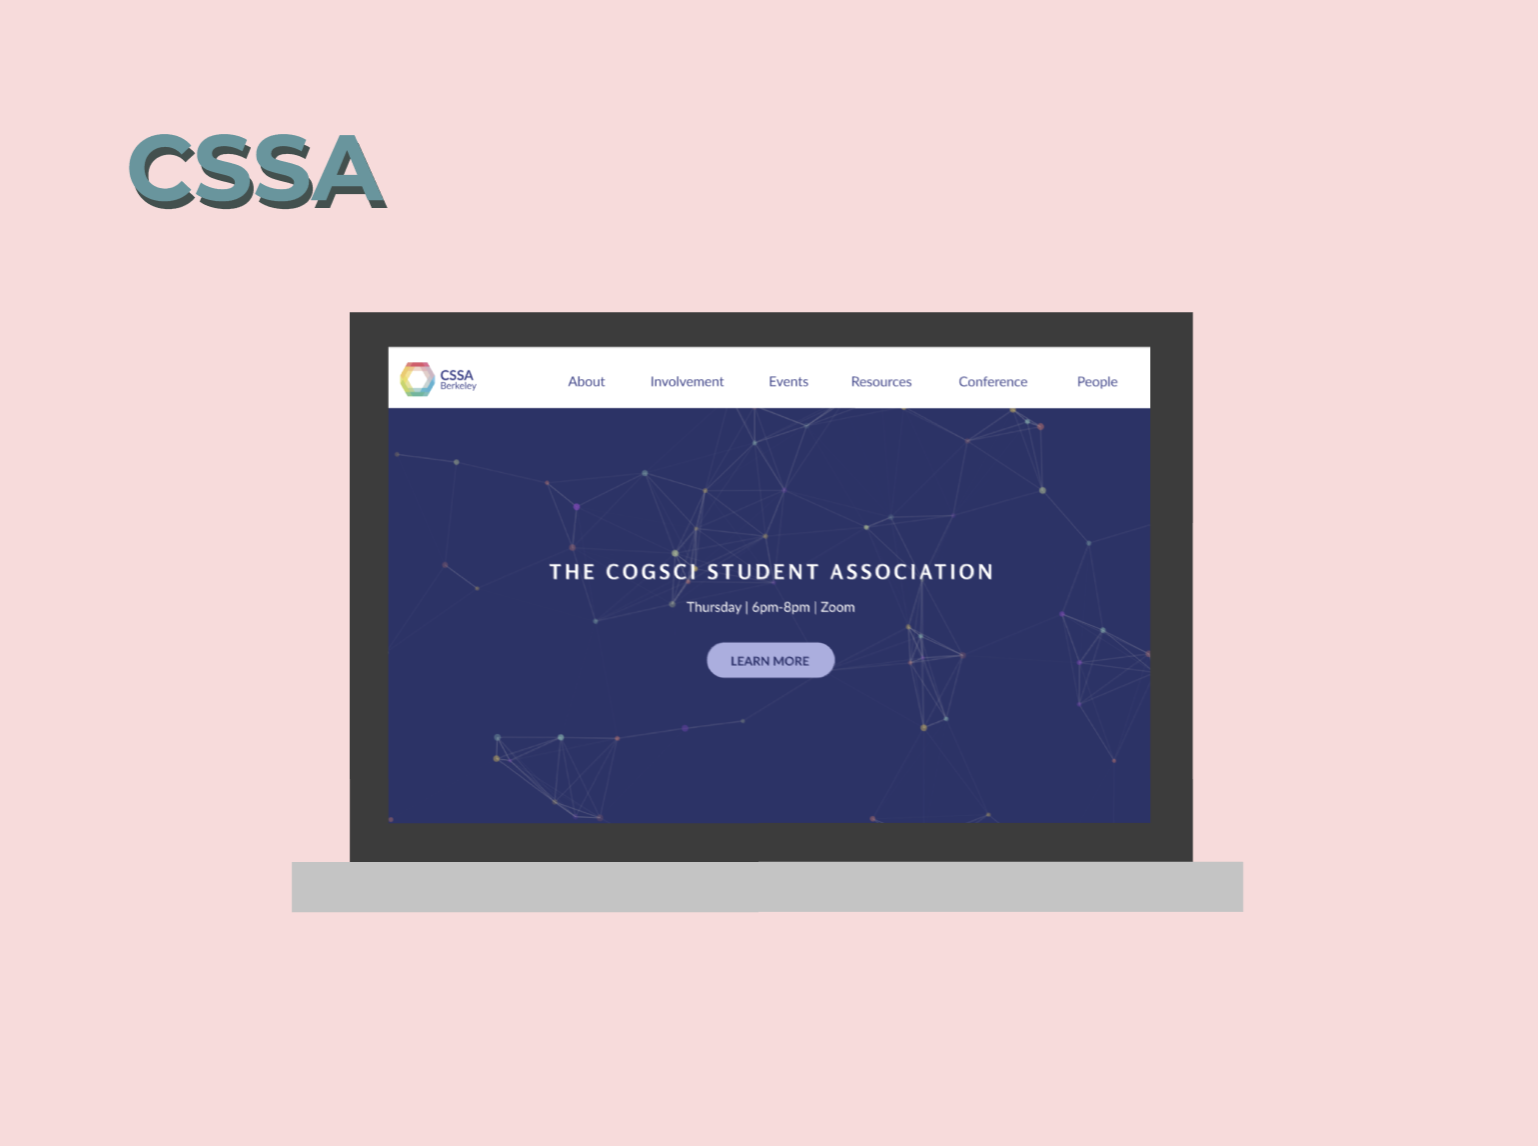
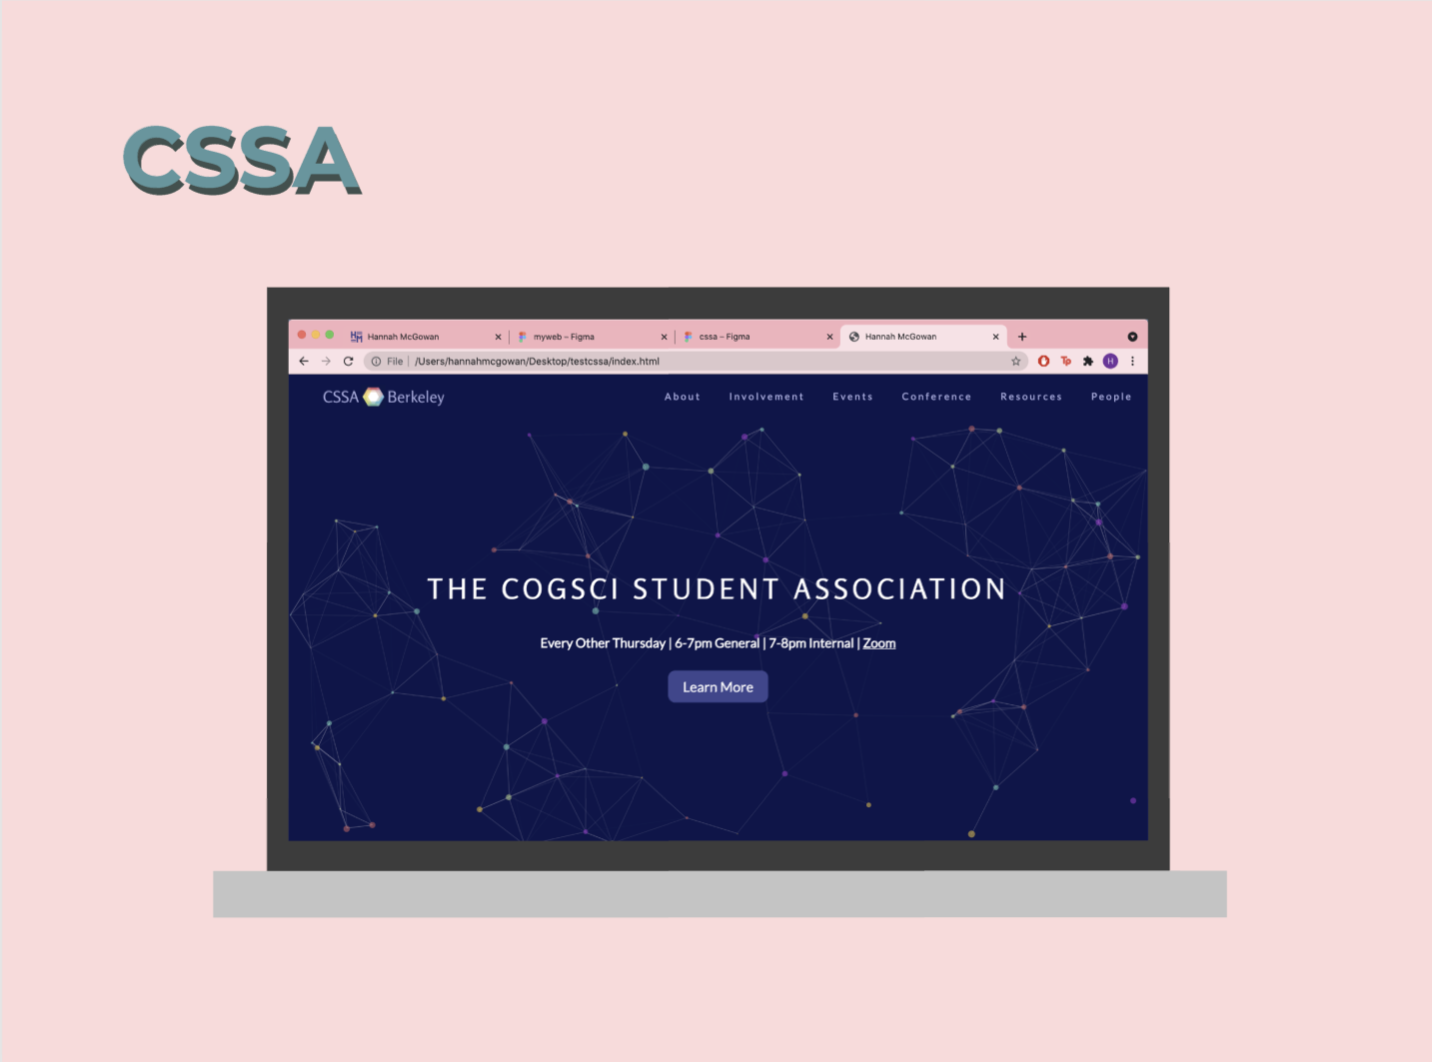
change font and add to portfolio

diff --git a/portfolio/adobeXD.html b/portfolio/adobeXD.html
@@ -8,6 +8,7 @@
 <link rel="icon" href="../images/favicon_HM.ico">
 <link href="https://fonts.googleapis.com/css2?family=Merriweather:ital,wght@0,300;0,400;0,700;0,900;1,300;1,400;1,700;1,900&family=Montserrat:ital,wght@0,100;0,200;0,300;0,400;0,500;0,600;0,700;0,800;0,900;1,100;1,200;1,300;1,400;1,500;1,600;1,700;1,800;1,900&family=Sacramento&display=swap"
     rel="stylesheet">
+<link href="https://fonts.googleapis.com/css2?family=Bowlby+One&display=swap" rel="stylesheet">
 
 <body>
 
@@ -48,6 +49,20 @@
     <div>
       <img class="construction-img" src="../images/portfo/construction.png">
     </div>
+
+
+    <div class="xd-col1">
+      <h3>AirBnb Workshop: "AirX."</h3>
+      <p>Details: worked on a team of 3 people; goal was to design a travelling app in which users could explore places to stay and create profiles based on various locations (OR SOMETHING I DONT REMEMBER THE PROMPT LOL). </p>
+      <p>PROCESS: </p>
+      <img src="">
+    </div>
+    <div class="xd-col2">
+      <h3>Netflix Workshop: "moviewatching" </h3>
+      <p>Details:WORKED ON TEAM OF 3; OBJECTIVE WAS TO CREATE APPLICATION IN WHICH USERS CAN VIEW SHOWS AND MOVIES; </p>
+      <img src="">
+    </div>
+
 
     <script type="text/javascript" src="../app.js"></script>
 

diff --git a/portfolio.html b/portfolio.html
@@ -8,6 +8,7 @@
 <link rel="icon" href="images/favicon_HM.ico">
 <link href="https://fonts.googleapis.com/css2?family=Merriweather:ital,wght@0,300;0,400;0,700;0,900;1,300;1,400;1,700;1,900&family=Montserrat:ital,wght@0,100;0,200;0,300;0,400;0,500;0,600;0,700;0,800;0,900;1,100;1,200;1,300;1,400;1,500;1,600;1,700;1,800;1,900&family=Sacramento&display=swap"
     rel="stylesheet">
+    <link href="https://fonts.googleapis.com/css2?family=Bowlby+One&display=swap" rel="stylesheet">
 
 <body>
 
@@ -64,6 +65,16 @@
         </a>
         <a href="portfolio/uidesigns.html"> 
           <img src="images/portfo/ui-img.png" class="port-img">
+        </a>
+    </div>
+
+    <div class="port-middle3">
+      <!-- <h2>Mini UI Designs</h2> -->
+      <a href="portfolio/cssaweb.html"> 
+          <img src="images/portfo/artwork-img.png" class="port-img">
+        </a>
+        <a href="portfolio/uidesigns.html"> 
+          <img src="images/portfo/mcgpaint-img.png" class="port-img">
         </a>
     </div>
 

diff --git a/index.html b/index.html
@@ -9,6 +9,8 @@
   <link rel="icon" href="images/favicon_HM.ico">
   <link href="https://fonts.googleapis.com/css2?family=Merriweather:ital,wght@0,300;0,400;0,700;0,900;1,300;1,400;1,700;1,900&family=Montserrat:ital,wght@0,100;0,200;0,300;0,400;0,500;0,600;0,700;0,800;0,900;1,100;1,200;1,300;1,400;1,500;1,600;1,700;1,800;1,900&family=Sacramento&display=swap"
     rel="stylesheet">
+ 
+<link href="https://fonts.googleapis.com/css2?family=Bowlby+One&display=swap" rel="stylesheet">
 
   <!-- <link rel="stylesheet" href="https://cdnjs.cloudflare.com/ajax/libs/font-awesome/4.7.0/css/font-awesome.min.css"> -->
   

diff --git a/css/styles.css b/css/styles.css
@@ -7,7 +7,7 @@ body {
   height: 100%;
   box-sizing: border-box;
   text-align: center;
-  font-family: 'Merriweather', sans-serif;
+  font-family: 'Montserrat', sans-serif;
 }
 
 /* START NAV */
@@ -146,7 +146,7 @@ nav {
 h1 {
   font-size: 5.625rem;
   margin: 50px auto 0 auto;
-  font-family: 'Sacramento', cursive;
+  font-family: 'Bowlby One', cursive;
   color: #3d7ea6;
 }
 
@@ -413,7 +413,7 @@ hr {
   color: #3d7ea6;
 }
 
-/* PORTFOLIO EXPRESSIO */
+/* PORTFOLIO EXPRESSO */
 
 .expresso-mid {
   margin-top: 20px;

diff --git a/portfolio/cssaweb.html b/portfolio/cssaweb.html
@@ -8,6 +8,7 @@
 <link rel="icon" href="../images/favicon_HM.ico">
 <link href="https://fonts.googleapis.com/css2?family=Merriweather:ital,wght@0,300;0,400;0,700;0,900;1,300;1,400;1,700;1,900&family=Montserrat:ital,wght@0,100;0,200;0,300;0,400;0,500;0,600;0,700;0,800;0,900;1,100;1,200;1,300;1,400;1,500;1,600;1,700;1,800;1,900&family=Sacramento&display=swap"
     rel="stylesheet">
+<link href="https://fonts.googleapis.com/css2?family=Bowlby+One&display=swap" rel="stylesheet">
 
 <body>
 

diff --git a/portfolio/expresso.html b/portfolio/expresso.html
@@ -8,6 +8,7 @@
 <link rel="icon" href="../images/favicon_HM.ico">
 <link href="https://fonts.googleapis.com/css2?family=Merriweather:ital,wght@0,300;0,400;0,700;0,900;1,300;1,400;1,700;1,900&family=Montserrat:ital,wght@0,100;0,200;0,300;0,400;0,500;0,600;0,700;0,800;0,900;1,100;1,200;1,300;1,400;1,500;1,600;1,700;1,800;1,900&family=Sacramento&display=swap"
     rel="stylesheet">
+<link href="https://fonts.googleapis.com/css2?family=Bowlby+One&display=swap" rel="stylesheet">
 
 <body>
 

diff --git a/portfolio/uidesigns.html b/portfolio/uidesigns.html
@@ -8,6 +8,7 @@
 <link rel="icon" href="../images/favicon_HM.ico">
 <link href="https://fonts.googleapis.com/css2?family=Merriweather:ital,wght@0,300;0,400;0,700;0,900;1,300;1,400;1,700;1,900&family=Montserrat:ital,wght@0,100;0,200;0,300;0,400;0,500;0,600;0,700;0,800;0,900;1,100;1,200;1,300;1,400;1,500;1,600;1,700;1,800;1,900&family=Sacramento&display=swap"
     rel="stylesheet">
+<link href="https://fonts.googleapis.com/css2?family=Bowlby+One&display=swap" rel="stylesheet">
 
 <body>
 

diff --git a/contact.html b/contact.html
@@ -8,6 +8,7 @@
 <link rel="icon" href="images/favicon_HM.ico">
 <link href="https://fonts.googleapis.com/css2?family=Merriweather:ital,wght@0,300;0,400;0,700;0,900;1,300;1,400;1,700;1,900&family=Montserrat:ital,wght@0,100;0,200;0,300;0,400;0,500;0,600;0,700;0,800;0,900;1,100;1,200;1,300;1,400;1,500;1,600;1,700;1,800;1,900&family=Sacramento&display=swap"
     rel="stylesheet">
+<link href="https://fonts.googleapis.com/css2?family=Bowlby+One&display=swap" rel="stylesheet">
 
 <body>
 

diff --git a/other.html b/other.html
@@ -8,6 +8,7 @@
 <link rel="icon" href="images/favicon_HM.ico">
 <link href="https://fonts.googleapis.com/css2?family=Merriweather:ital,wght@0,300;0,400;0,700;0,900;1,300;1,400;1,700;1,900&family=Montserrat:ital,wght@0,100;0,200;0,300;0,400;0,500;0,600;0,700;0,800;0,900;1,100;1,200;1,300;1,400;1,500;1,600;1,700;1,800;1,900&family=Sacramento&display=swap"
     rel="stylesheet">
+<link href="https://fonts.googleapis.com/css2?family=Bowlby+One&display=swap" rel="stylesheet">
 
 <body>
 
